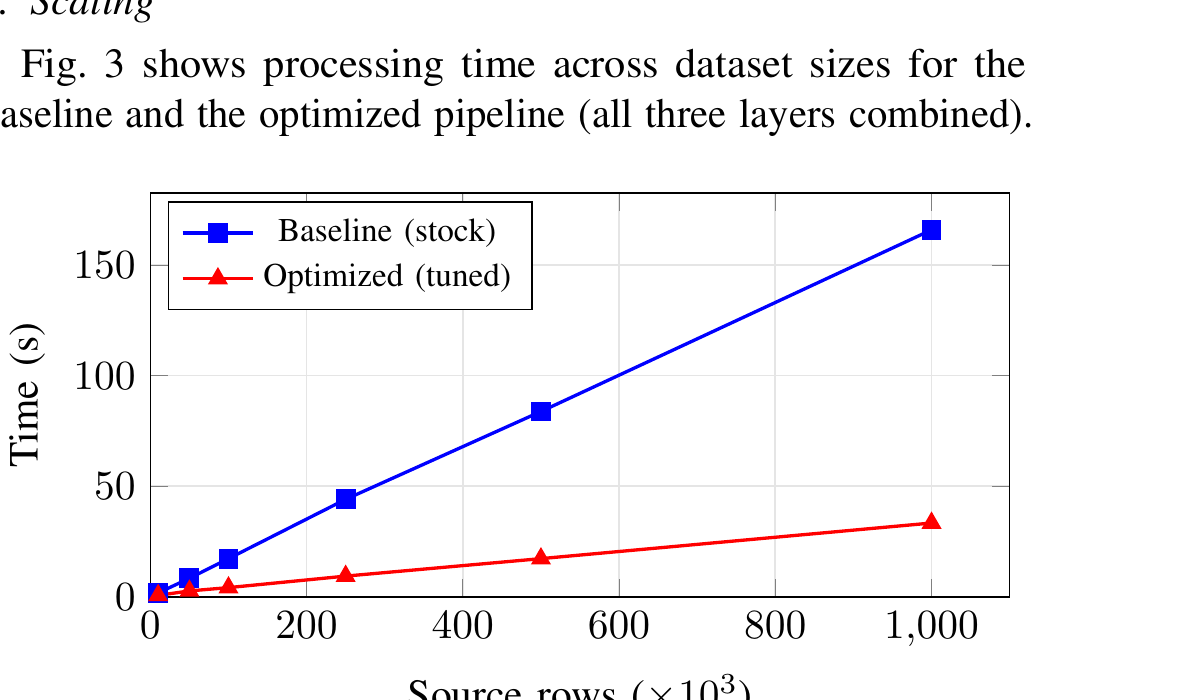
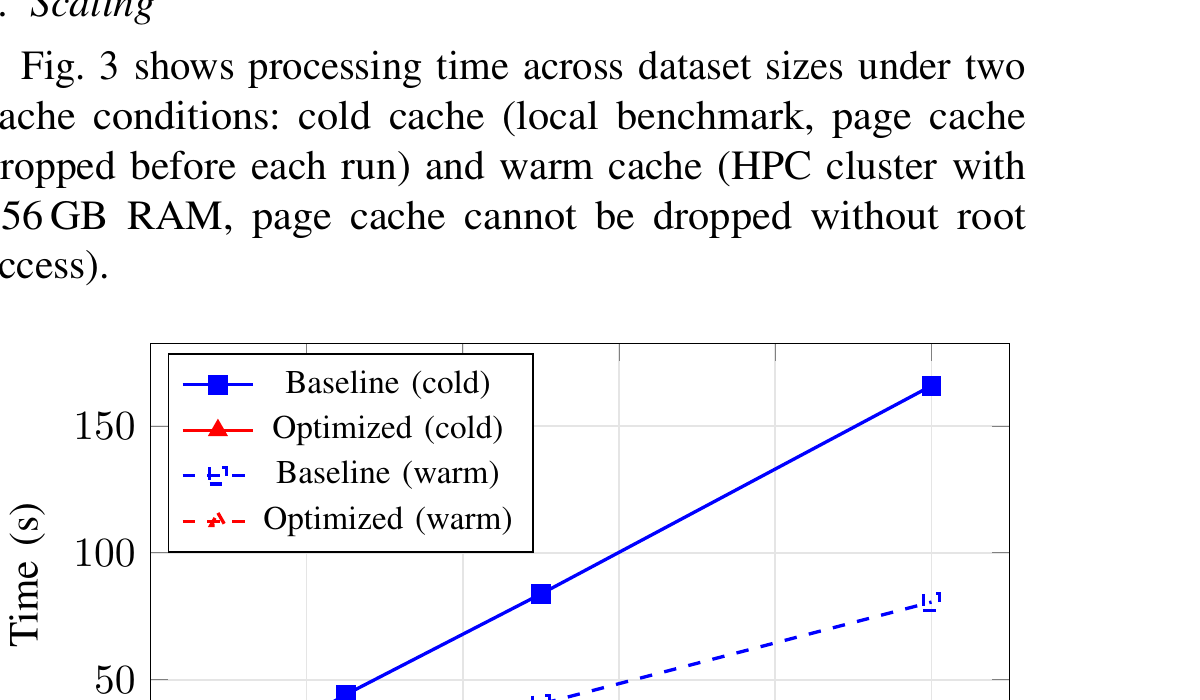
docs: add warm-cache data series to scaling chart
Fig. 3 now shows four lines: cold-cache baseline/optimized (solid)
and warm-cache baseline/optimized (dashed). Discussion explains
the cache sensitivity, tmpfs eviction attempt, and why cold-cache
results are more representative of production deployments.

diff --git a/doc/src/main.tex b/doc/src/main.tex
@@ -428,13 +428,13 @@ Parallel SSH        & $+18\%$ & Non-temp tables add WAL \\
 \subsection{Scaling}
 \label{sec:scaling}
 
-Fig.~\ref{fig:scaling} shows processing time across dataset sizes for the baseline and the optimized pipeline (all three layers combined).
+Fig.~\ref{fig:scaling} shows processing time across dataset sizes under two cache conditions: cold cache (local benchmark, page cache dropped before each run) and warm cache (HPC cluster with 256\,GB RAM, page cache cannot be dropped without root access).
 
 \begin{figure}[!ht]
 \centering
 \begin{tikzpicture}
 \begin{axis}[
-    width=\columnwidth, height=5cm,
+    width=\columnwidth, height=5.5cm,
     xlabel={Source rows ($\times 10^3$)},
     ylabel={Time (s)},
     legend style={at={(0.02,0.98)}, anchor=north west, font=\footnotesize},
@@ -445,28 +445,36 @@ Fig.~\ref{fig:scaling} shows processing time across dataset sizes for the baseli
 \addplot[thick, mark=square*, blue] coordinates {
     (10,1.8) (50,8.4) (100,17.3) (250,44.1) (500,83.8) (1000,165.9)
 };
-\addlegendentry{Baseline (stock)}
+\addlegendentry{Baseline (cold)}
 \addplot[thick, mark=triangle*, red] coordinates {
     (10,0.7) (50,2.7) (100,4.2) (250,9.4) (500,17.3) (1000,33.4)
 };
-\addlegendentry{Optimized (tuned)}
+\addlegendentry{Optimized (cold)}
+\addplot[thick, mark=square, blue, dashed] coordinates {
+    (10,0.9) (50,4.2) (100,8.1) (250,21.0) (500,40.4) (1000,80.6)
+};
+\addlegendentry{Baseline (warm)}
+\addplot[thick, mark=triangle, red, dashed] coordinates {
+    (10,1.0) (50,2.9) (100,4.5) (250,9.2) (500,17.3) (1000,33.1)
+};
+\addlegendentry{Optimized (warm)}
 \end{axis}
 \end{tikzpicture}
-\caption{Processing time vs.\ dataset size (cold cache, stock config for baseline, tuned for optimized). The optimized pipeline achieves $5.0\times$ speedup at $10^6$ rows.}
+\caption{Processing time vs.\ dataset size. Solid lines: cold cache (page cache dropped before each run). Dashed lines: warm cache (HPC, 256\,GB RAM). The optimized pipeline achieves $5.0\times$ speedup with cold cache and $2.4\times$ with warm cache at $10^6$ rows.}
 \label{fig:scaling}
 \end{figure}
 
-The baseline scales linearly at approximately 0.166\,ms per source row.
+Under cold-cache conditions, the baseline scales linearly at approximately 0.166\,ms per source row.
 The optimized pipeline scales sublinearly, from 0.069\,ms/row at $10^4$ to 0.033\,ms/row at $10^6$, because the fixed extraction cost is amortized over more rows and bulk index rebuilds are more efficient than incremental maintenance.
-At very small scales ($< 10^4$ rows), the optimized pipeline is slower than the baseline because its fixed overhead (temporary table creation, \texttt{jsonb\_to\_record} extraction, index construction, constraint drop/rebuild) exceeds the per-row savings.
-The crossover point is approximately $10^4$ rows; beyond that, the optimized pipeline is consistently faster, and the advantage grows with scale.
-At $3 \times 10^8$ rows, the extrapolated baseline time is approximately 13.8 hours; the optimized pipeline is projected at under 3 hours.
+At very small scales ($< 10^4$ rows), the optimized pipeline is slower than the baseline because its fixed overhead exceeds the per-row savings; the crossover point is approximately $10^4$ rows.
+At $3 \times 10^8$ rows, the extrapolated cold-cache baseline is approximately 13.8 hours; the optimized pipeline is projected at under 3 hours.
 
-The speedup is sensitive to the operating system's page cache state.
-On hardware with large amounts of RAM (256\,GB in our HPC tests), the page cache retains the source data between runs.
-In this warm-cache scenario, the baseline benefits disproportionately because its FK trigger lookups hit cached pages instead of disk, reducing the baseline to approximately 81\,s at $10^6$ rows and the speedup to $2.4\times$.
-The optimized pipeline is unaffected (33\,s) because it eliminates FK triggers entirely.
-The cold-cache results reported above are more representative of production deployments where the source data is not pre-cached.
+The speedup is sensitive to the operating system's page cache.
+Under warm-cache conditions (dashed lines in Fig.~\ref{fig:scaling}), the baseline is approximately $2\times$ faster because its FK trigger lookups hit cached pages instead of disk.
+The optimized pipeline is unaffected because it eliminates FK triggers entirely.
+This narrows the speedup from $5.0\times$ to $2.4\times$ at $10^6$ rows.
+On the HPC cluster, dropping the page cache requires root privileges that are unavailable to user jobs; we attempted to force eviction by filling \texttt{/dev/shm} (tmpfs) to consume RAM, but the tmpfs size limit (50\% of RAM) prevented full eviction.
+The cold-cache results from our local benchmark, where page cache is explicitly dropped via \texttt{/proc/sys/vm/drop\_caches}, are more representative of production deployments where the source data is not pre-cached.
 
 \subsection{Resource Usage}
 
